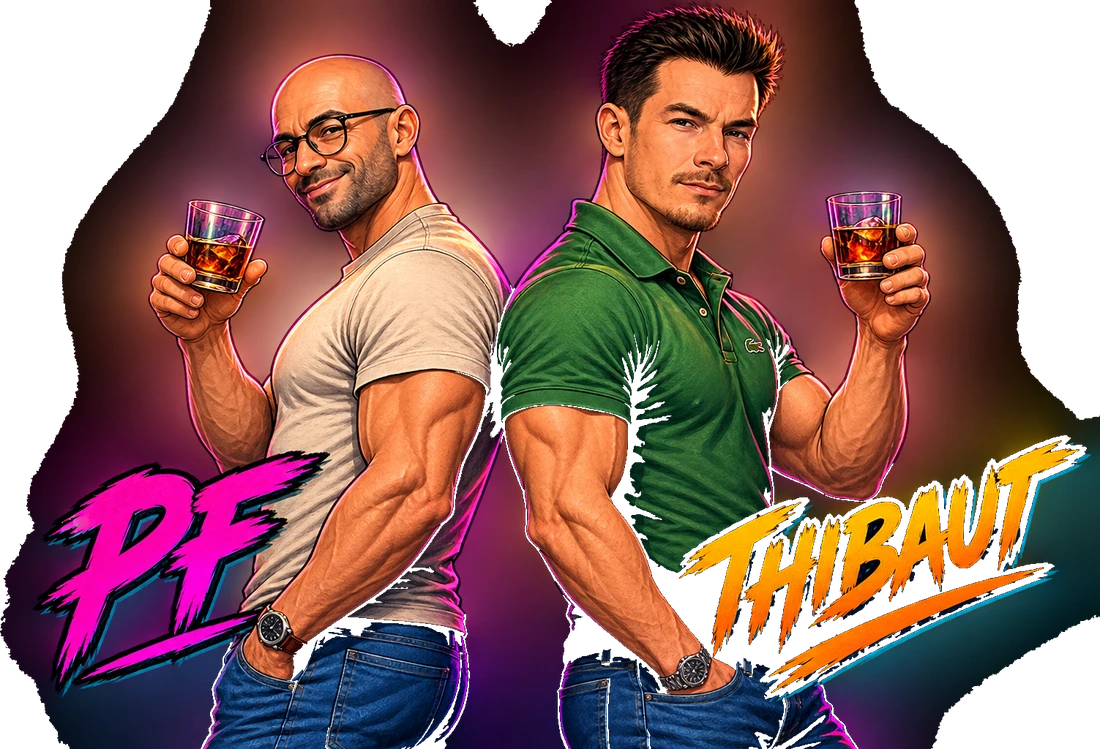
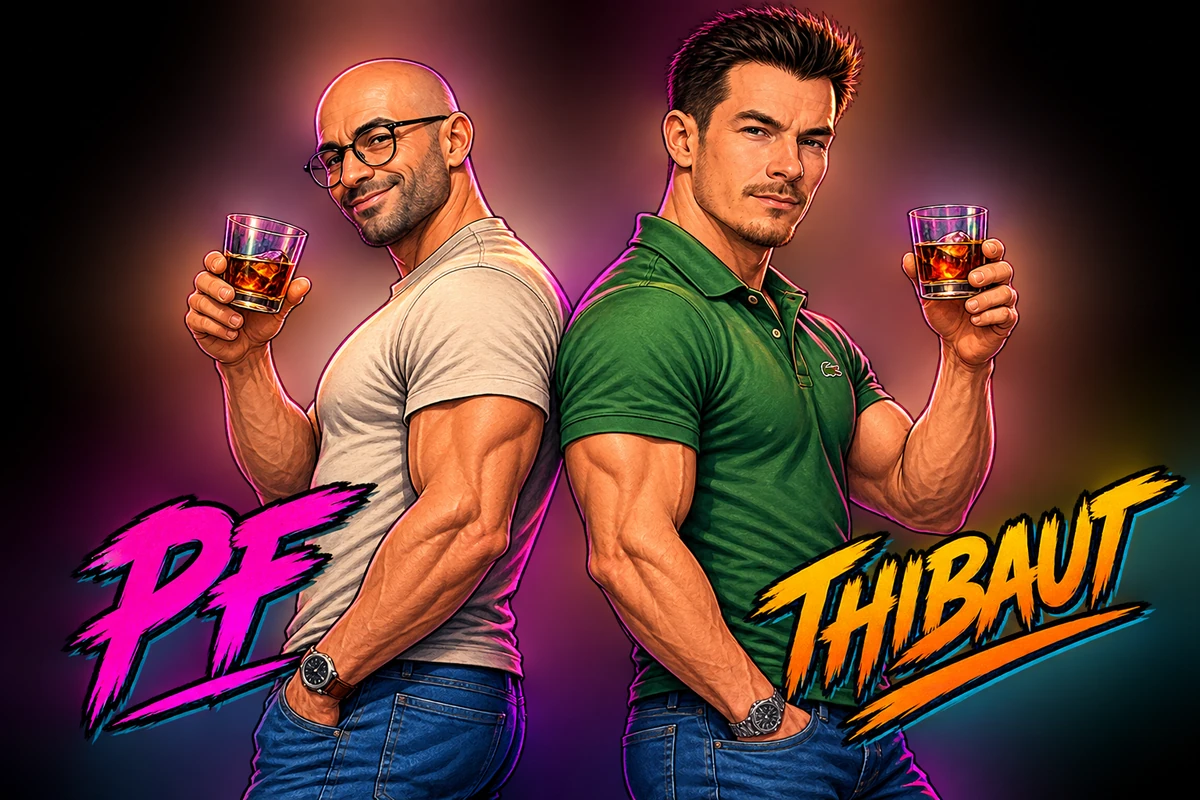
dtour v6.82 : l'affiche du bar reparee
- ELLE NE S'AFFICHAIT PAS AU PREMIER LANCEMENT : peinte a la fin du
  dessin, l'ecran de choix rendait la main avant. Elle passe maintenant
  AVANT tout le reste.
- LE PUPITRE se dessinait par-dessus, et il fallait corriger DEUX
  endroits : une seconde fonction le rallumait sans connaitre l'affiche,
  et elle passait en dernier.
- le duo se compose en ADDITIF, plus de detourage : le fond noir pur
  n'ajoute rien en mode lighter et le neon se fond dans la penombre, la
  ou la decoupe laissait un halo sale
- 3 tests

diff --git a/dtour/index.html b/dtour/index.html
@@ -772,7 +772,7 @@ kbd{
     <div class="lecture" id="dLecture"></div>
   </div>
 
-  <div id="version">CALLAGHAN v6.81</div>
+  <div id="version">CALLAGHAN v6.82</div>
 
   <div id="pupitre2">
     <button class="cmd2" id="c2G" aria-label="Aller à gauche">◀</button>
@@ -844,7 +844,7 @@ kbd{
      UIManager         -> Interface
 ================================================================== */
 
-const VERSION = "6.81";
+const VERSION = "6.82";
 
 /* ---------- géométrie ----------
    Tout est exprimé en « unités monde », où un personnage mesure
@@ -8813,6 +8813,12 @@ const BarVue = {
     const img = Images.table.fond_bar;
     if (!img || !img.naturalWidth){ ctx.fillStyle = "#120A18"; ctx.fillRect(0, 0, L, H); return; }
 
+    /* L'INTRO PASSE AVANT TOUT, y compris avant l'écran de choix. Elle
+       était peinte à la fin de `dessiner()`, donc le `return` du choix
+       l'emportait : au premier lancement on tombait sur le bar et le
+       pupitre sans jamais la voir, alors qu'au rejeu elle apparaissait.
+       Un écran de présentation ne doit dépendre d'aucun autre état. */
+    if (T.introT > 0){ this.dessinerIntro(); return; }
     if (T.enChoix){ this.dessinerChoix(); return; }
 
     const trem = T.secousse > 0 ? Math.sin(T.secousse * 62) * 5 * T.secousse : 0;
@@ -8886,7 +8892,7 @@ const BarVue = {
     /* L'AFFICHE EN DERNIER, par-dessus le HUD : c'est un écran de
        présentation, pas une surimpression. Posée au milieu du dessin,
        la jauge d'ambiance et le score lui passaient dessus. */
-    if (Tournee.introT > 0) this.dessinerIntro();
+
   },
 
   /* --------- choix du champion --------- */
@@ -9146,33 +9152,53 @@ const BarVue = {
       ctx.globalAlpha = al;
     }
     /* un voile qui remonte du bas : il détache le texte du décor */
-    const v = ctx.createLinearGradient(0, H * 0.42, 0, H);
+    const v = ctx.createLinearGradient(0, H * 0.62, 0, H);
     v.addColorStop(0, "rgba(10,7,20,0)");
-    v.addColorStop(1, "rgba(10,7,20,.88)");
+    v.addColorStop(1, "rgba(10,7,20,.92)");
     ctx.fillStyle = v;
-    ctx.fillRect(0, H * 0.42, L, H * 0.58);
+    ctx.fillRect(0, H * 0.62, L, H * 0.38);
 
-    /* LE DUO, contenu et non recadré : les deux noms peints en font
-       partie, les couper reviendrait à couper le titre. */
+    /* LE DUO, COMPOSÉ EN ADDITIF plutôt que détouré. Son fond est noir
+       pur (mesuré : 1 de luminance aux coins) et les personnages sont
+       cernés d'un néon. Un détourage coupait DANS ce néon et laissait un
+       halo sale ; en additif, le noir n'ajoute rien, le néon se fond dans
+       la nuit du bar et les deux noms peints restent nets. Aucune
+       découpe, donc aucun artefact possible.
+
+       Contenu et non recadré : les deux noms font partie de l'image,
+       les couper reviendrait à couper le titre. */
     const duo = Images.table.duo_bar;
     if (duo && duo.naturalWidth){
       const av = borne((BAR_INTRO_DUREE - t) / 0.5, 0, 1);
-      const e2 = Math.min((L * 0.94) / duo.naturalWidth,
-                          (H * 0.66) / duo.naturalHeight);
+      const e2 = Math.min((L * 0.98) / duo.naturalWidth,
+                          (H * 0.80) / duo.naturalHeight);
       const l2 = duo.naturalWidth * e2, h2 = duo.naturalHeight * e2;
+      ctx.save();
+      ctx.globalCompositeOperation = "lighter";
       ctx.globalAlpha = al * av;
       ctx.drawImage(duo, (L - l2) / 2,
-                    H * 0.46 - h2 / 2 + (1 - av) * H * 0.04, l2, h2);
+                    H * 0.44 - h2 / 2 + (1 - av) * H * 0.04, l2, h2);
+      ctx.restore();
       ctx.globalAlpha = al;
     }
 
+    /* Une bande sombre derrière le titre : le duo descend bas et le texte
+       se posait sur ses jambes. Elle vient APRÈS le duo, donc par-dessus,
+       et en mode normal — pas additif, sinon elle éclaircirait. */
+    const bt = ctx.createLinearGradient(0, H * 0.72, 0, H);
+    bt.addColorStop(0, "rgba(8,5,16,0)");
+    bt.addColorStop(0.40, "rgba(8,5,16,.88)");
+    bt.addColorStop(1, "rgba(8,5,16,.96)");
+    ctx.fillStyle = bt;
+    ctx.fillRect(0, H * 0.72, L, H * 0.28);
+
     ctx.textAlign = "center"; ctx.textBaseline = "middle";
     ctx.fillStyle = "#F7B32B";
-    BarVue.texteQuiTient("LA TOURNÉE DU D'TOUR", L / 2, H * 0.845, L * 0.88,
+    BarVue.texteQuiTient("LA TOURNÉE DU D'TOUR", L / 2, H * 0.865, L * 0.88,
                          H * 0.085, "800");
     ctx.fillStyle = "rgba(237,231,250,.62)";
     ctx.font = "700 " + Math.round(H * 0.038) + "px 'Baloo 2', system-ui, sans-serif";
-    ctx.fillText("Touchez pour commencer", L / 2, H * 0.935);
+    ctx.fillText("Touchez pour commencer", L / 2, H * 0.950);
     ctx.textAlign = "left";
     ctx.restore();
   },
@@ -12501,7 +12527,11 @@ const Interface = {
     /* Le pupitre du niveau 3 n'apparaît qu'une fois le champion choisi :
        pendant la sélection, les flèches et BOIRE/JETER n'ont rien à
        piloter et encombrent l'écran de choix. */
-    if (E.pupitre3) E.pupitre3.classList.toggle("on", Jeu.niveau === 3 && !Tournee.enChoix);
+    /* Le pupitre reste rangé pendant l'AFFICHE aussi, pas seulement
+       pendant le choix : il se dessinait par-dessus l'écran de
+       présentation, avec ses boutons éteints en travers du titre. */
+    if (E.pupitre3) E.pupitre3.classList.toggle("on",
+      Jeu.niveau === 3 && !Tournee.enChoix && Tournee.introT <= 0);
     if (E.outilsBtn && Debug.autorise) E.outilsBtn.classList.add("on");
     if (E.pleinBtn) E.pleinBtn.classList.add("on");
     if (E.pauseBtn) E.pauseBtn.classList.add("on");
@@ -12583,10 +12613,15 @@ const Interface = {
      restent cliquables — un appui à vide répond « PAS DE VERRE ICI ». */
   majActionBar(){
     if (Jeu.niveau !== 3) return;
-    /* L'écran de choix se joue au doigt sur le canevas : on range le
-       pupitre tant qu'il n'y a pas de champion. */
-    if (E.pupitre3) E.pupitre3.classList.toggle("on", !Tournee.enChoix);
-    if (Tournee.enChoix) return;
+    /* L'écran de choix ET l'affiche se jouent au doigt sur le canevas :
+       on range le pupitre tant qu'il n'y a pas de champion. DEUX endroits
+       décidaient de cet affichage, et celui-ci — le dernier appelé —
+       ignorait l'affiche : le pupitre revenait par-dessus l'écran de
+       présentation quoi qu'en dise l'autre. Une même propriété pilotée à
+       deux endroits, c'est toujours le dernier qui gagne. */
+    if (E.pupitre3) E.pupitre3.classList.toggle("on",
+      !Tournee.enChoix && Tournee.introT <= 0);
+    if (Tournee.enChoix || Tournee.introT > 0) return;
     const pret = Tournee.actif && Tournee.verreAPortee() >= 0 && Tournee.boitT <= 0;
     if (E.c3B) E.c3B.classList.toggle("eteint", !pret);
     if (E.c3J) E.c3J.classList.toggle("eteint", !pret);

diff --git a/dtour/parts/i_bar_vue.js b/dtour/parts/i_bar_vue.js
@@ -22,6 +22,12 @@ const BarVue = {
     const img = Images.table.fond_bar;
     if (!img || !img.naturalWidth){ ctx.fillStyle = "#120A18"; ctx.fillRect(0, 0, L, H); return; }
 
+    /* L'INTRO PASSE AVANT TOUT, y compris avant l'écran de choix. Elle
+       était peinte à la fin de `dessiner()`, donc le `return` du choix
+       l'emportait : au premier lancement on tombait sur le bar et le
+       pupitre sans jamais la voir, alors qu'au rejeu elle apparaissait.
+       Un écran de présentation ne doit dépendre d'aucun autre état. */
+    if (T.introT > 0){ this.dessinerIntro(); return; }
     if (T.enChoix){ this.dessinerChoix(); return; }
 
     const trem = T.secousse > 0 ? Math.sin(T.secousse * 62) * 5 * T.secousse : 0;
@@ -95,7 +101,7 @@ const BarVue = {
     /* L'AFFICHE EN DERNIER, par-dessus le HUD : c'est un écran de
        présentation, pas une surimpression. Posée au milieu du dessin,
        la jauge d'ambiance et le score lui passaient dessus. */
-    if (Tournee.introT > 0) this.dessinerIntro();
+
   },
 
   /* --------- choix du champion --------- */
@@ -355,33 +361,53 @@ const BarVue = {
       ctx.globalAlpha = al;
     }
     /* un voile qui remonte du bas : il détache le texte du décor */
-    const v = ctx.createLinearGradient(0, H * 0.42, 0, H);
+    const v = ctx.createLinearGradient(0, H * 0.62, 0, H);
     v.addColorStop(0, "rgba(10,7,20,0)");
-    v.addColorStop(1, "rgba(10,7,20,.88)");
+    v.addColorStop(1, "rgba(10,7,20,.92)");
     ctx.fillStyle = v;
-    ctx.fillRect(0, H * 0.42, L, H * 0.58);
+    ctx.fillRect(0, H * 0.62, L, H * 0.38);
 
-    /* LE DUO, contenu et non recadré : les deux noms peints en font
-       partie, les couper reviendrait à couper le titre. */
+    /* LE DUO, COMPOSÉ EN ADDITIF plutôt que détouré. Son fond est noir
+       pur (mesuré : 1 de luminance aux coins) et les personnages sont
+       cernés d'un néon. Un détourage coupait DANS ce néon et laissait un
+       halo sale ; en additif, le noir n'ajoute rien, le néon se fond dans
+       la nuit du bar et les deux noms peints restent nets. Aucune
+       découpe, donc aucun artefact possible.
+
+       Contenu et non recadré : les deux noms font partie de l'image,
+       les couper reviendrait à couper le titre. */
     const duo = Images.table.duo_bar;
     if (duo && duo.naturalWidth){
       const av = borne((BAR_INTRO_DUREE - t) / 0.5, 0, 1);
-      const e2 = Math.min((L * 0.94) / duo.naturalWidth,
-                          (H * 0.66) / duo.naturalHeight);
+      const e2 = Math.min((L * 0.98) / duo.naturalWidth,
+                          (H * 0.80) / duo.naturalHeight);
       const l2 = duo.naturalWidth * e2, h2 = duo.naturalHeight * e2;
+      ctx.save();
+      ctx.globalCompositeOperation = "lighter";
       ctx.globalAlpha = al * av;
       ctx.drawImage(duo, (L - l2) / 2,
-                    H * 0.46 - h2 / 2 + (1 - av) * H * 0.04, l2, h2);
+                    H * 0.44 - h2 / 2 + (1 - av) * H * 0.04, l2, h2);
+      ctx.restore();
       ctx.globalAlpha = al;
     }
 
+    /* Une bande sombre derrière le titre : le duo descend bas et le texte
+       se posait sur ses jambes. Elle vient APRÈS le duo, donc par-dessus,
+       et en mode normal — pas additif, sinon elle éclaircirait. */
+    const bt = ctx.createLinearGradient(0, H * 0.72, 0, H);
+    bt.addColorStop(0, "rgba(8,5,16,0)");
+    bt.addColorStop(0.40, "rgba(8,5,16,.88)");
+    bt.addColorStop(1, "rgba(8,5,16,.96)");
+    ctx.fillStyle = bt;
+    ctx.fillRect(0, H * 0.72, L, H * 0.28);
+
     ctx.textAlign = "center"; ctx.textBaseline = "middle";
     ctx.fillStyle = "#F7B32B";
-    BarVue.texteQuiTient("LA TOURNÉE DU D'TOUR", L / 2, H * 0.845, L * 0.88,
+    BarVue.texteQuiTient("LA TOURNÉE DU D'TOUR", L / 2, H * 0.865, L * 0.88,
                          H * 0.085, "800");
     ctx.fillStyle = "rgba(237,231,250,.62)";
     ctx.font = "700 " + Math.round(H * 0.038) + "px 'Baloo 2', system-ui, sans-serif";
-    ctx.fillText("Touchez pour commencer", L / 2, H * 0.935);
+    ctx.fillText("Touchez pour commencer", L / 2, H * 0.950);
     ctx.textAlign = "left";
     ctx.restore();
   },

diff --git a/dtour/parts/d_pilotage.js b/dtour/parts/d_pilotage.js
@@ -347,7 +347,11 @@ const Interface = {
     /* Le pupitre du niveau 3 n'apparaît qu'une fois le champion choisi :
        pendant la sélection, les flèches et BOIRE/JETER n'ont rien à
        piloter et encombrent l'écran de choix. */
-    if (E.pupitre3) E.pupitre3.classList.toggle("on", Jeu.niveau === 3 && !Tournee.enChoix);
+    /* Le pupitre reste rangé pendant l'AFFICHE aussi, pas seulement
+       pendant le choix : il se dessinait par-dessus l'écran de
+       présentation, avec ses boutons éteints en travers du titre. */
+    if (E.pupitre3) E.pupitre3.classList.toggle("on",
+      Jeu.niveau === 3 && !Tournee.enChoix && Tournee.introT <= 0);
     if (E.outilsBtn && Debug.autorise) E.outilsBtn.classList.add("on");
     if (E.pleinBtn) E.pleinBtn.classList.add("on");
     if (E.pauseBtn) E.pauseBtn.classList.add("on");
@@ -429,10 +433,15 @@ const Interface = {
      restent cliquables — un appui à vide répond « PAS DE VERRE ICI ». */
   majActionBar(){
     if (Jeu.niveau !== 3) return;
-    /* L'écran de choix se joue au doigt sur le canevas : on range le
-       pupitre tant qu'il n'y a pas de champion. */
-    if (E.pupitre3) E.pupitre3.classList.toggle("on", !Tournee.enChoix);
-    if (Tournee.enChoix) return;
+    /* L'écran de choix ET l'affiche se jouent au doigt sur le canevas :
+       on range le pupitre tant qu'il n'y a pas de champion. DEUX endroits
+       décidaient de cet affichage, et celui-ci — le dernier appelé —
+       ignorait l'affiche : le pupitre revenait par-dessus l'écran de
+       présentation quoi qu'en dise l'autre. Une même propriété pilotée à
+       deux endroits, c'est toujours le dernier qui gagne. */
+    if (E.pupitre3) E.pupitre3.classList.toggle("on",
+      !Tournee.enChoix && Tournee.introT <= 0);
+    if (Tournee.enChoix || Tournee.introT > 0) return;
     const pret = Tournee.actif && Tournee.verreAPortee() >= 0 && Tournee.boitT <= 0;
     if (E.c3B) E.c3B.classList.toggle("eteint", !pret);
     if (E.c3J) E.c3J.classList.toggle("eteint", !pret);

diff --git a/dtour/tests/tests.js b/dtour/tests/tests.js
@@ -1890,6 +1890,44 @@ if (D){
         /b\.ref\.comptoir \|\| BAR_COMPTOIR/.test(source);
     })());
 
+  verifier("l'affiche passe AVANT tout le reste du dessin",
+    (() => {
+      /* Elle était peinte à la fin : le `return` de l'écran de choix
+         l'emportait, et au premier lancement on tombait sur le bar sans
+         jamais la voir — alors qu'au rejeu elle apparaissait. Un écran
+         de présentation ne doit dépendre d'aucun autre état. */
+      const i = source.indexOf("if (T.introT > 0){ this.dessinerIntro(); return; }");
+      const j = source.indexOf("if (T.enChoix){ this.dessinerChoix(); return; }");
+      return i > 0 && j > i;
+    })());
+
+  verifier("le pupitre reste rangé pendant l'AFFICHE aussi",
+    (() => {
+      /* Il se dessinait par-dessus l'écran de présentation, boutons
+         éteints en travers du titre. */
+      const pup = domBac.getElementById("pupitre3");
+      D.Jeu.demarrer(3);
+      D.Jeu.pas(1 / 60);
+      const pendant = !pup.classList.contains("on");
+      /* la tape doit venir APRÈS le quart de seconde de garde */
+      for (let k = 0; k < 30; k++) D.Jeu.pas(1 / 60);
+      D.Tournee.passerIntro();
+      for (let k = 0; k < 60; k++) D.Jeu.pas(1 / 60);
+      D.Tournee.lancer(); D.Tournee.introT = 0;
+      D.Jeu.pas(1 / 60);
+      return pendant && pup.classList.contains("on");
+    })());
+
+  verifier("le duo de l'affiche se compose en ADDITIF, il n'est pas détouré",
+    (() => {
+      /* Le fond de l'image est un noir pur : en `lighter` il n'ajoute
+         rien et disparaît de lui-même, tandis qu'un détourage laissait
+         un halo sale autour du néon. */
+      const i = source.indexOf("const duo = Images.table.duo_bar");
+      const bloc = source.slice(i, i + 600);
+      return i > 0 && /globalCompositeOperation = "lighter"/.test(bloc);
+    })());
+
   verifier("les deux champions existent et se distinguent",
     D.BAR_CHAMPIONS.length === 2 &&
     D.BAR_CHAMPIONS[0].vitesse !== D.BAR_CHAMPIONS[1].vitesse &&

diff --git a/dtour/parts/a_socle.js b/dtour/parts/a_socle.js
@@ -18,7 +18,7 @@
      UIManager         -> Interface
 ================================================================== */
 
-const VERSION = "6.81";
+const VERSION = "6.82";
 
 /* ---------- géométrie ----------
    Tout est exprimé en « unités monde », où un personnage mesure

diff --git a/dtour/MEMOIRE.md b/dtour/MEMOIRE.md
@@ -1135,6 +1135,34 @@ au-dessus du seuil de fragment — était compté comme une pose de plus. Le
 contrôle de compte a refusé d'écrire, ce qui a évité la livraison. Une
 coupure se déclare donc avec sa plage de hauteur.
 
+### Un écran de présentation se dessine EN PREMIER, pas en dernier
+
+L'affiche du bar était peinte à la fin de `dessiner()`. Comme l'écran de
+choix rend la main plus haut dans la même fonction, elle n'était jamais
+atteinte au premier lancement — et l'était au rejeu, parce que l'état
+diffère d'un cheveu entre les deux chemins. Un écran qui doit TOUT
+recouvrir se place au début et rend la main lui-même.
+
+### Une même propriété pilotée à deux endroits : c'est le dernier qui gagne
+
+Le pupitre du niveau 3 était allumé par deux fonctions différentes. J'en
+ai corrigé une ; l'autre, appelée après, le rallumait sans rien savoir de
+l'affiche. Le symptôme est resté identique, ce qui donne l'impression que
+la correction n'a servi à rien.
+
+Le réflexe : avant de corriger un affichage, chercher TOUS les endroits
+qui le pilotent. `grep` sur le nom de l'élément, pas seulement sur la
+condition qu'on croit fautive.
+
+### Un fond noir pur se compose en ADDITIF, il ne se détoure pas
+
+Détourer un personnage entouré de néon laisse un halo sale : le dégradé
+lumineux se coupe quelque part, et cette coupure se voit. En mode
+`lighter`, un fond noir n'ajoute rien et disparaît de lui-même, tandis
+que le néon se fond dans la pénombre. Aucune découpe, donc aucun bord
+raté — à condition que le fond du dessin soit VRAIMENT noir, ce qui se
+vérifie en mesurant les coins.
+
 ### Un décor de premier plan accroché à la CAMÉRA n'est pas un décor
 
 Les grappes de figurants du bar étaient posées en fractions d'ÉCRAN.

diff --git a/dtour/LISEZMOI.md b/dtour/LISEZMOI.md
@@ -283,6 +283,27 @@ ne lit que l'en-tête WebP de quelques images. Le contrôle Python ouvre
 désormais TOUS les fichiers et rend un code non nul sur le premier
 illisible. Il en a trouvé un second dans la seconde qui a suivi.
 
+**L'affiche du bar réparée** (v6.82) : tes deux captures montraient deux
+défauts différents, et ils avaient deux causes différentes.
+
+**Elle ne s'affichait pas au premier lancement.** Elle était peinte à la
+FIN du dessin, or l'écran de choix rend la main avant : au premier
+lancement on tombait sur le bar et le pupitre sans jamais la voir, alors
+qu'au rejeu elle apparaissait. Elle passe maintenant avant tout le reste
+— un écran de présentation ne doit dépendre d'aucun autre état.
+
+**Le pupitre se dessinait par-dessus**, boutons éteints en travers du
+titre. Et il fallait corriger DEUX endroits : une seconde fonction
+rallumait le pupitre sans tenir compte de l'affiche, et c'est elle qui
+gagnait puisqu'elle passait en dernier.
+
+**Le duo se compose en ADDITIF, il n'est plus détouré.** Le fond de
+l'image est un noir pur : en mode `lighter` il n'ajoute rien et disparaît
+de lui-même, tandis que le néon des contours se fond dans la pénombre —
+là où un détourage laissait un halo sale. Aucune découpe, donc aucun bord
+raté. Il occupe 80 % de la hauteur, avec une bande sombre derrière le
+titre.
+
 **Les deux intros attendent le clic** (v6.81) : elles s'effaçaient toutes
 seules après 2,6 s à la ruelle et 3,2 s au bar. Le joueur qui lisait
 encore se retrouvait en pleine partie sans l'avoir demandé — et le
